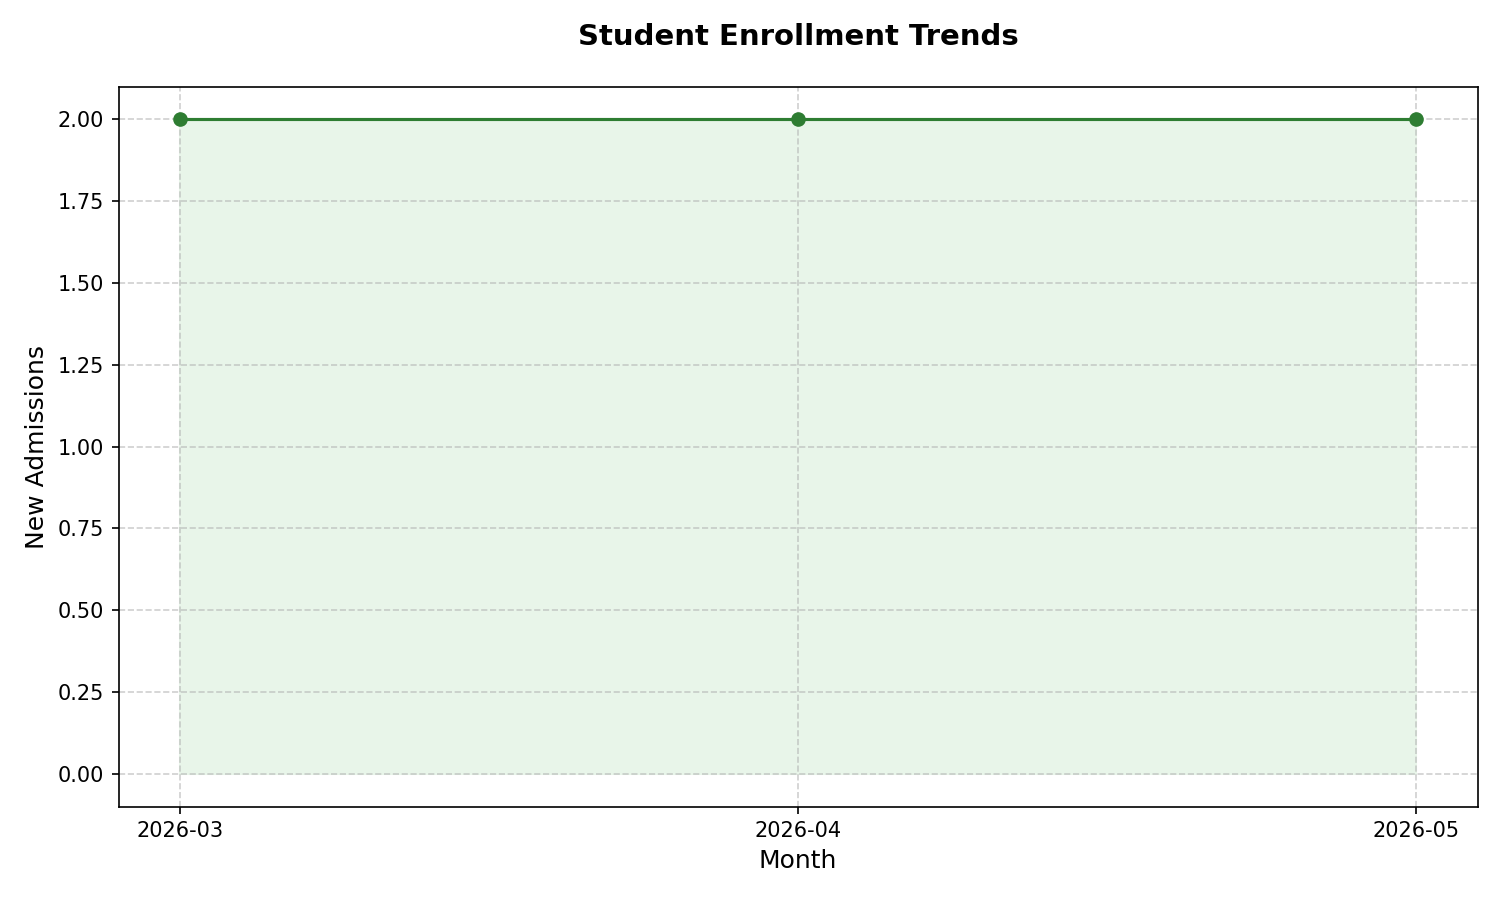
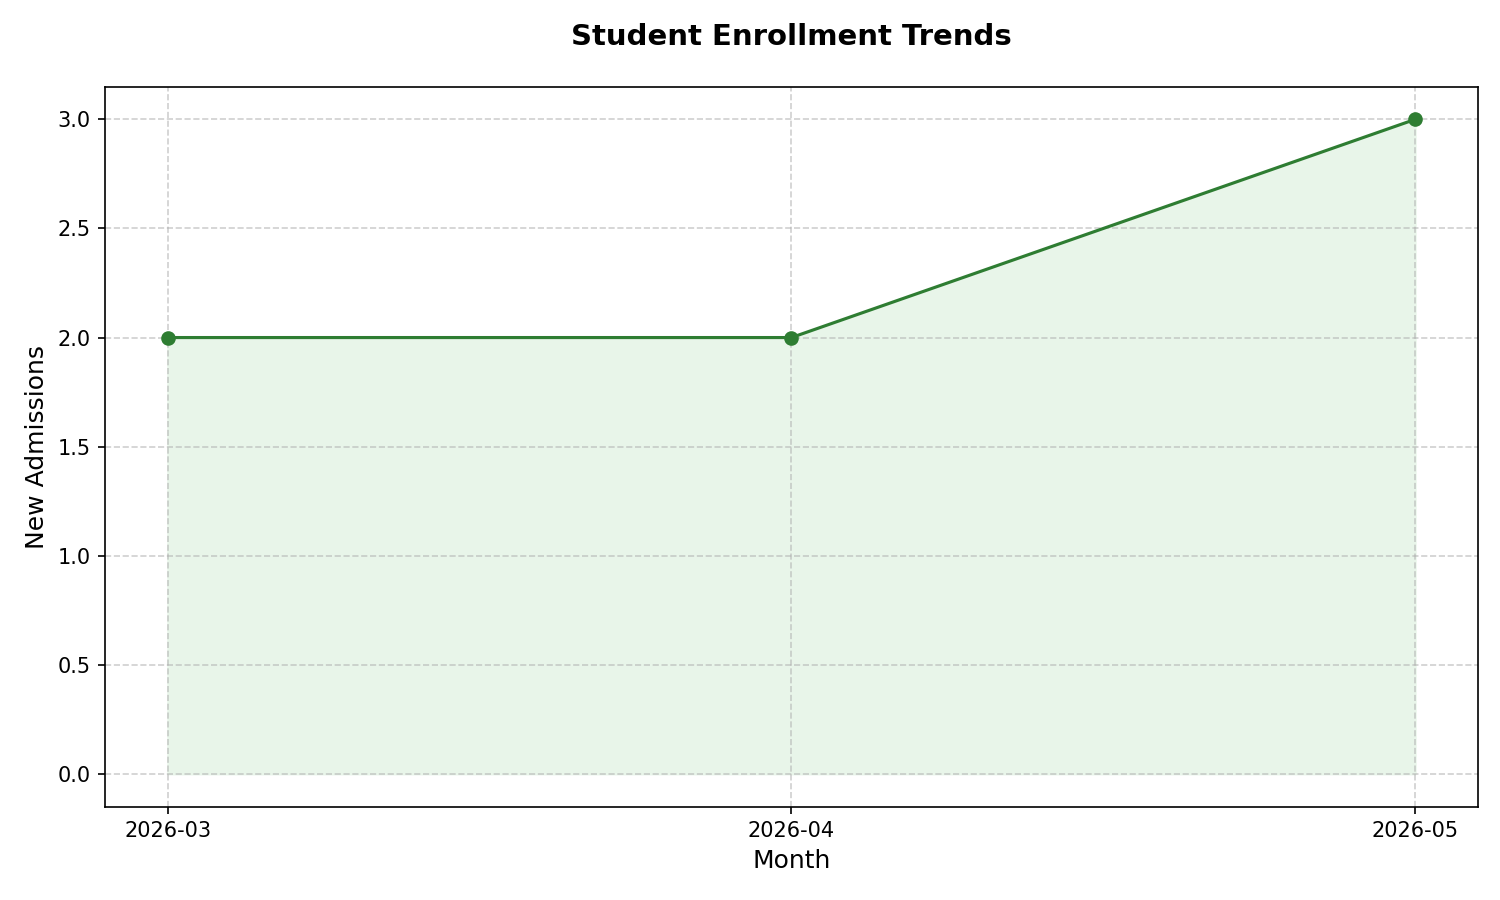
fix: rename user table to users (reserved keyword in TiDB/MySQL)

diff --git a/src/main/java/com/example/project1/AppController.java b/src/main/java/com/example/project1/AppController.java
@@ -1,4 +1,4 @@
-package com.example.project1;
+package com.example.project1;
 
 import java.util.List;
 import java.util.Map;
@@ -114,7 +114,7 @@ public class AppController {
         }
 
         if ("admin".equalsIgnoreCase(role)) {
-            Integer adminCount = jdbc.queryForObject("SELECT COUNT(*) FROM user WHERE role = 'admin'", Integer.class);
+            Integer adminCount = jdbc.queryForObject("SELECT COUNT(*) FROM users WHERE role = 'admin'", Integer.class);
             if (adminCount != null && adminCount > 0) {
                 m.addAttribute("error", "Administrator already exists. You cannot register as an admin.");
                 return "signup";
@@ -126,7 +126,7 @@ public class AppController {
         String encryptedConfirmPassword = encoder.encode(confirm_password);
 
         try {
-            String sql = "INSERT INTO user(name, role, password, confirmpassword) VALUES(?, ?, ?, ?)";
+            String sql = "INSERT INTO users(name, role, password, confirmpassword) VALUES(?, ?, ?, ?)";
             jdbc.update(sql, uname, role, encryptedPassword, encryptedConfirmPassword);
             m.addAttribute("msg", "Registered Successfully");
         } catch (org.springframework.dao.DuplicateKeyException e) {
@@ -147,7 +147,7 @@ public class AppController {
             HttpServletRequest request,
             HttpServletResponse response,
             Model model) {
-        String sql = "SELECT * FROM user WHERE name = ?";
+        String sql = "SELECT * FROM users WHERE name = ?";
 
         List<Map<String, Object>> users = jdbc.queryForList(sql, name);
 
@@ -202,7 +202,7 @@ public class AppController {
         String encryptedPassword = encoder.encode(password);
         String encryptedConfirmPassword = encoder.encode(confirm_password);
 
-        String sql = "UPDATE user SET password = ?, confirmPassword = ? WHERE name = ?";
+        String sql = "UPDATE users SET password = ?, confirmPassword = ? WHERE name = ?";
         int rowsAffected = jdbc.update(sql, encryptedPassword, encryptedConfirmPassword, name);
 
         if (rowsAffected > 0) {
@@ -223,7 +223,7 @@ public class AppController {
         if (!res.isEmpty()) {
             Object userId = res.get(0).get("user_id");
             jdbc.update("DELETE FROM students WHERE student_id = ?", id);
-            jdbc.update("DELETE FROM user WHERE user_id = ?", userId);
+            jdbc.update("DELETE FROM users WHERE user_id = ?", userId);
         }
         return "redirect:/adashboard?page=students&deleted=1";
     }
@@ -238,7 +238,7 @@ public class AppController {
         if (!res.isEmpty()) {
             Object userId = res.get(0).get("user_id");
             jdbc.update("DELETE FROM teachers WHERE teacher_id = ?", id);
-            jdbc.update("DELETE FROM user WHERE user_id = ?", userId);
+            jdbc.update("DELETE FROM users WHERE user_id = ?", userId);
         }
         return "redirect:/adashboard?page=teachers&deleted=1";
     }
@@ -263,7 +263,7 @@ public class AppController {
 
         try {
             jdbc.update(
-                    "INSERT INTO user (name, password, confirmpassword, role, is_active) VALUES (?, ?, ?, 'faculty', 1)",
+                    "INSERT INTO users (name, password, confirmpassword, role, is_active) VALUES (?, ?, ?, 'faculty', 1)",
                     name, encryptedPass, encryptedPass);
 
             Integer userId = jdbc.queryForObject("SELECT LAST_INSERT_ID()", Integer.class);
@@ -318,7 +318,7 @@ public class AppController {
             if (!res.isEmpty()) {
                 Object userId = res.get(0).get("user_id");
                 int isActive = "Active".equalsIgnoreCase(status) ? 1 : 0;
-                jdbc.update("UPDATE user SET name=?, is_active=? WHERE user_id=?", name, isActive, userId);
+                jdbc.update("UPDATE users SET name=?, is_active=? WHERE user_id=?", name, isActive, userId);
             }
         } catch (Exception e) {
             e.printStackTrace();
@@ -862,7 +862,7 @@ public class AppController {
     public List<Map<String, Object>> getAssignmentSubmissions(@RequestParam("assignment_id") int assignmentId) {
         String sql = "SELECT s.*, u.name as student_name FROM assignment_submissions s " +
                     "JOIN students st ON s.student_id = st.student_id " +
-                    "JOIN user u ON st.user_id = u.user_id " +
+                    "JOIN users u ON st.user_id = u.user_id " +
                     "WHERE s.assignment_id = ? ORDER BY s.submitted_at DESC";
         return jdbc.queryForList(sql, assignmentId);
     }
@@ -880,7 +880,7 @@ public class AppController {
 
             String sql = "SELECT s.*, u.name as student_name FROM assignment_submissions s " +
                         "JOIN students st ON s.student_id = st.student_id " +
-                        "JOIN user u ON st.user_id = u.user_id " +
+                        "JOIN users u ON st.user_id = u.user_id " +
                         "WHERE s.assignment_id = ? ORDER BY s.submitted_at DESC";
             List<Map<String, Object>> submissions = jdbc.queryForList(sql, assignmentId);
             model.addAttribute("submissions", submissions);
@@ -1026,12 +1026,12 @@ public class AppController {
 
         try {
 
-            String dbPass = jdbc.queryForObject("SELECT password FROM user WHERE user_id = ?", String.class, userId);
+            String dbPass = jdbc.queryForObject("SELECT password FROM users WHERE user_id = ?", String.class, userId);
             BCryptPasswordEncoder encoder = new BCryptPasswordEncoder();
 
             if (encoder.matches(currentPassword, dbPass)) {
                 String encryptedNewPass = encoder.encode(newPassword);
-                jdbc.update("UPDATE user SET password = ?, confirmpassword = ? WHERE user_id = ?", 
+                jdbc.update("UPDATE users SET password = ?, confirmpassword = ? WHERE user_id = ?", 
                     encryptedNewPass, encryptedNewPass, userId);
             } else {
                 return "redirect:/adashboard?page=settings&error=wrong_current_password";

diff --git a/src/main/java/com/example/project1/AddStudentServlet.java b/src/main/java/com/example/project1/AddStudentServlet.java
@@ -1,4 +1,4 @@
-package com.example.project1;
+package com.example.project1;
 
 import jakarta.servlet.ServletException;
 import jakarta.servlet.annotation.WebServlet;
@@ -44,7 +44,7 @@ public class AddStudentServlet extends HttpServlet {
             // 1. Create user in 'user' table
             // Note: 'user' table does NOT have 'email' column, uses 'name' for login.
             // Also requires 'confirmpassword'.
-            String userSql = "INSERT INTO user (name, password, confirmpassword, role, is_active) VALUES (?, ?, ?, 'student', 1)";
+            String userSql = "INSERT INTO users (name, password, confirmpassword, role, is_active) VALUES (?, ?, ?, 'student', 1)";
             PreparedStatement userPstmt = conn.prepareStatement(userSql, Statement.RETURN_GENERATED_KEYS);
             userPstmt.setString(1, name);
             userPstmt.setString(2, encryptedPass);

diff --git a/src/main/java/com/example/project1/AdminController.java b/src/main/java/com/example/project1/AdminController.java
@@ -1,4 +1,4 @@
-package com.example.project1;
+package com.example.project1;
 
 import java.io.IOException;
 import java.util.List;
@@ -24,7 +24,7 @@ public class AdminController {
     @GetMapping("/profile")
     public String profile(HttpSession session, Model m) {
         String email = (String) session.getAttribute("email");
-        String sql = "select name, user.email,role,photo from user left join profile on user.email=profile.email where user.email='"
+        String sql = "select name, users.email,role,photo FROM users left join profile on users.email=profile.email where users.email='"
                 + email + "'";
         List<Map<String, Object>> userprofile = jdbc.queryForList(sql);
         m.addAttribute("userprofile", userprofile);

diff --git a/src/main/java/com/example/project1/UpdateProfileServlet.java b/src/main/java/com/example/project1/UpdateProfileServlet.java
@@ -1,4 +1,4 @@
-package com.example.project1;
+package com.example.project1;
 
 import jakarta.servlet.ServletException;
 import jakarta.servlet.annotation.MultipartConfig;
@@ -51,7 +51,7 @@ public class UpdateProfileServlet extends HttpServlet {
             conn = DriverManager.getConnection("jdbc:mysql://localhost:3308/project1", "root", "");
 
             // Update user table (common for all)
-            String userSql = "UPDATE user SET name = ? WHERE user_id = ?";
+            String userSql = "UPDATE users SET name = ? WHERE user_id = ?";
             PreparedStatement userPstmt = conn.prepareStatement(userSql);
             userPstmt.setString(1, name);
             userPstmt.setObject(2, userId);

diff --git a/src/main/java/com/example/project1/EditStudentServlet.java b/src/main/java/com/example/project1/EditStudentServlet.java
@@ -1,4 +1,4 @@
-package com.example.project1;
+package com.example.project1;
 
 import jakarta.servlet.ServletException;
 import jakarta.servlet.annotation.WebServlet;
@@ -61,7 +61,7 @@ public class EditStudentServlet extends HttpServlet {
 
             // ── 2. Update name in user table (user table lacks 'email' col) ──
             String updateUser =
-                    "UPDATE user SET name=? WHERE user_id = " +
+                    "UPDATE users SET name=? WHERE user_id = " +
                     "(SELECT user_id FROM students WHERE student_id=?)";
             PreparedStatement ps2 = conn.prepareStatement(updateUser);
             ps2.setString(1, name);

diff --git a/src/main/java/com/example/project1/Project1Application.java b/src/main/java/com/example/project1/Project1Application.java
@@ -1,4 +1,4 @@
-package com.example.project1;
+package com.example.project1;
 
 import org.springframework.boot.SpringApplication;
 import org.springframework.boot.autoconfigure.SpringBootApplication;

diff --git a/src/main/java/com/example/project1/SecurityConfig.java b/src/main/java/com/example/project1/SecurityConfig.java
@@ -1,4 +1,4 @@
-package com.example.project1;
+package com.example.project1;
 
 import org.springframework.context.annotation.Bean;
 import org.springframework.context.annotation.Configuration;

diff --git a/src/main/java/com/example/project1/StudentController.java b/src/main/java/com/example/project1/StudentController.java
@@ -1,4 +1,4 @@
-package com.example.project1;
+package com.example.project1;
 
 import org.springframework.stereotype.Controller;
 import org.springframework.web.bind.annotation.GetMapping;

diff --git a/src/main/java/com/example/project1/TeacherController.java b/src/main/java/com/example/project1/TeacherController.java
@@ -1,4 +1,4 @@
-package com.example.project1;
+package com.example.project1;
 
 import org.springframework.stereotype.Controller;
 import org.springframework.web.bind.annotation.GetMapping;
